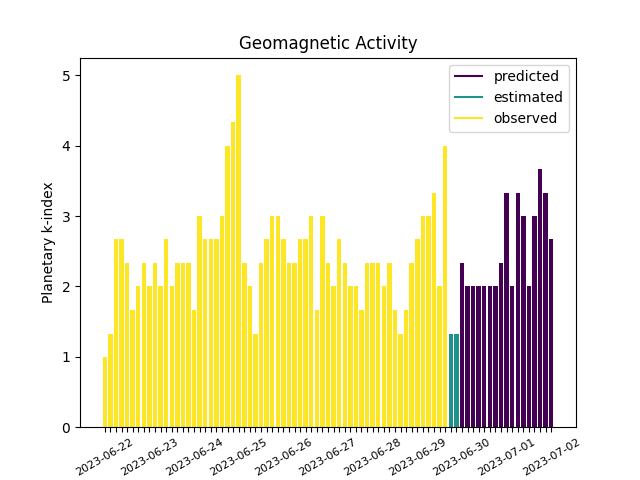
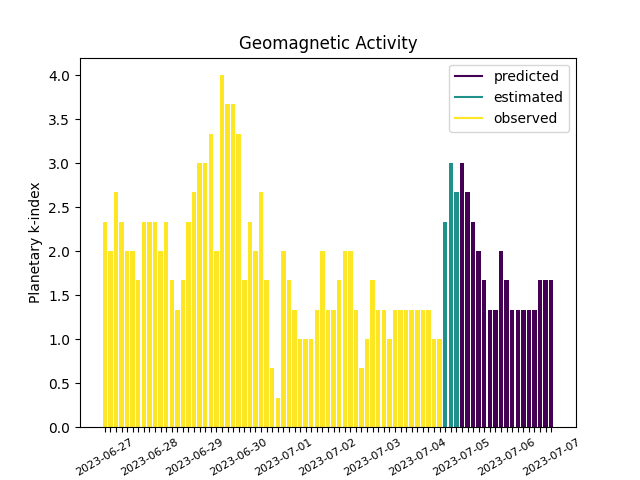
improved msn weather features

diff --git a/msn_weather.py b/msn_weather.py
@@ -13,6 +13,7 @@ def update_msn_weather(location):
 
     # Navigate to the webpage
     driver.get(f'https://www.msn.com/en-ca/weather/forecast/in-{location}')
+    loc = driver.execute_script("return document.querySelector('#WeatherOverviewLocationName a').textContent")
 
     driver.save_screenshot("msn_weather.png")
     driver.quit()
@@ -21,8 +22,7 @@ def update_msn_weather(location):
     crop_box = (30, 230, 636, 494)
     cropped_image = image.crop(crop_box)
     cropped_image.save("msn_weather.png")
-
-    return "Successfully retrieved weather data"
+    return loc
 
 
 def update_weather_graph(location):
@@ -34,10 +34,11 @@ def update_weather_graph(location):
 
     # Navigate to the webpage
     driver.get(f'https://www.msn.com/en-ca/weather/forecast/in-{location}')
+    loc = driver.execute_script("return document.querySelector('#WeatherOverviewLocationName a').textContent")
       
     driver.execute_script("document.body.style.zoom='150%'")
     driver.execute_script("window.scrollBy(0, 2000)")
-    time.sleep(3)
+    time.sleep(6)
     driver.save_screenshot("msn_weather_graph.png")
     driver.quit()
     
@@ -45,8 +46,8 @@ def update_weather_graph(location):
     crop_box = (11, 369, 1375, 784)
     cropped_image = image.crop(crop_box)
     cropped_image.save('msn_weather_graph.png')
-
-    return "Successfully retrieved weather data"
+    
+    return loc
 
 
 if __name__ == '__main__':

diff --git a/main.py b/main.py
@@ -200,7 +200,7 @@ async def get_msn_weather(ctx, location: discord.Option(
 
     try:
         today_weather = msn_weather.update_msn_weather(location)
-        await ctx.respond(today_weather,
+        await ctx.respond("## Weather in "+today_weather,
                           file=discord.File('msn_weather.png'))
 
     except Exception as e:
@@ -226,7 +226,7 @@ async def weather_graph(ctx, location: discord.Option(
 
     try:
         today_weather = msn_weather.update_weather_graph(location)
-        await ctx.respond(today_weather,
+        await ctx.respond("## Weather in "+ today_weather,
                           file=discord.File('msn_weather_graph.png'))
 
     except Exception as e:
